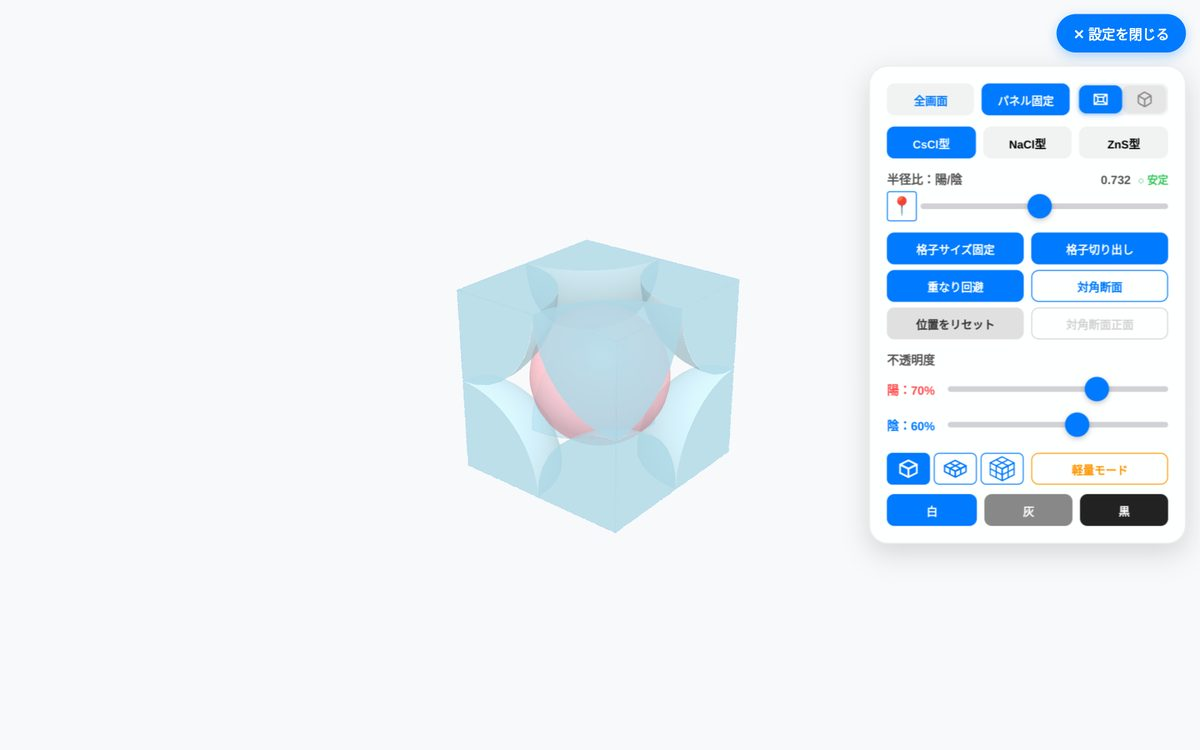
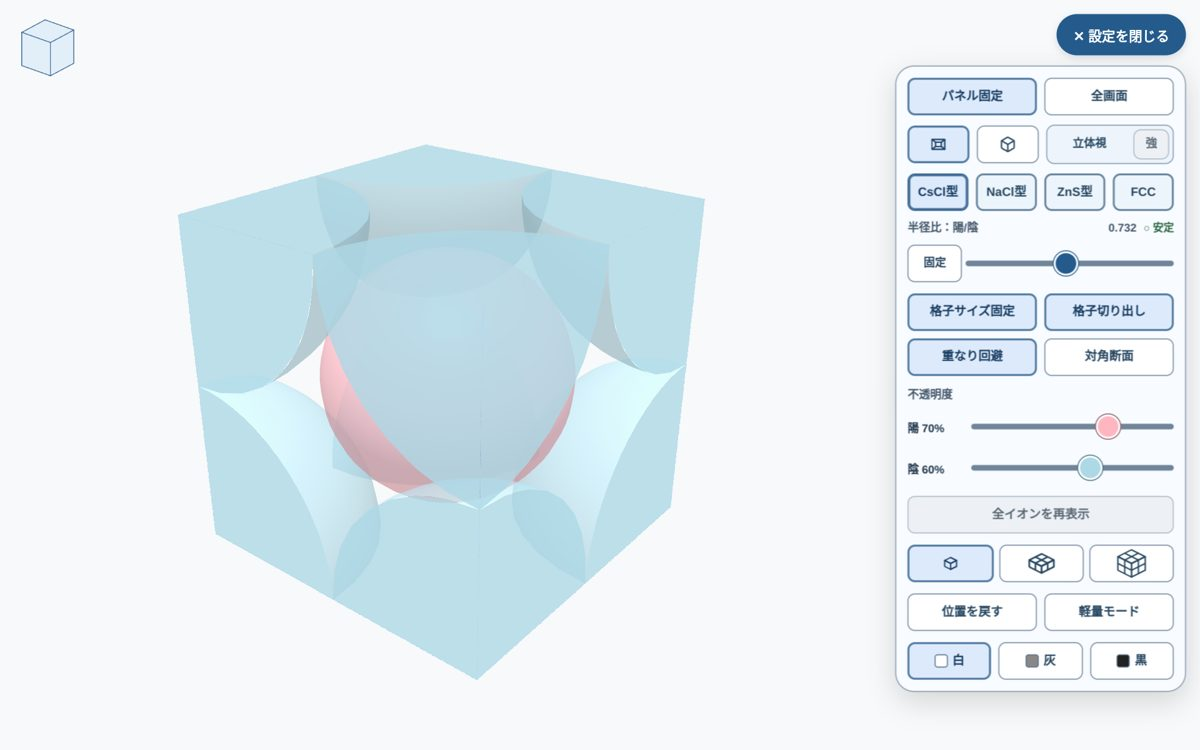
GenkaiHankeiHi: refresh screenshots (FCC mode, new panel) and rewrite description

Changed region(s): [[0.1233, 0.184, 0.6167, 0.92], [0.74, 0.0, 1.0, 0.9507], [0.0, 0.0307, 0.0617, 0.1227]]

diff --git a/index.html b/index.html
@@ -148,15 +148,15 @@
       },
       genkai: {
         name: '限界半径比いじくるくん',
-        desc: '陽イオンと陰イオンの半径比をスライダーで変えながら、CsCl型・NaCl型・ZnS型の結晶格子の中で「接している・重なる・離れる」様子を3Dで確かめるシミュレータ。断面表示や不透明度の調整もできます。',
+        desc: 'イオン結晶の限界半径比を3Dで確かめるシミュレータ。NaCl型・CsCl型・ZnS型の結晶格子を切り替え、半径比（陽イオン／陰イオン）のスライダーを動かすと、構造の安定・不安定がその場で表示されます。対角断面、イオンの不透明度調整、格子の切り出しにも対応。面心立方格子（FCC）モードでは、原子と間隙の表示切替や、頂点・面心／ABC層での色分けができます。立体視や背景色の変更も可能です。',
         tags: ['結晶格子', '半径比', '3D'],
         app: 'https://koichem.github.io/GenkaiHankeiHi/',
         gh: 'https://github.com/KoiChem/GenkaiHankeiHi',
         shots: [
           ['assets/genkai-1.jpg', '限界半径比いじくるくんのNaCl型表示と設定パネル'],
           ['assets/genkai-2.jpg', '限界半径比いじくるくんのCsCl型表示'],
-          ['assets/genkai-3.jpg', '限界半径比いじくるくんの全画面3D表示'],
-          ['assets/genkai-4.jpg', 'ZnS型の結晶格子'],
+          ['assets/genkai-3.jpg', 'ZnS型の結晶格子'],
+          ['assets/genkai-4.jpg', '面心立方格子（FCC）モードの表示'],
           ['assets/genkai-5.jpg', '対角断面の表示'],
           ['assets/genkai-6.jpg', '半径比が小さすぎて不安定な状態'],
         ],
